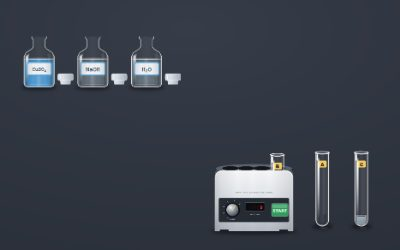
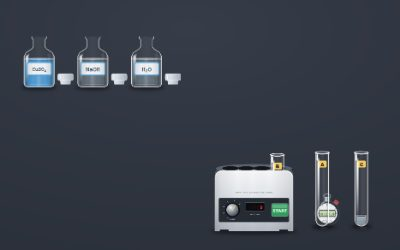
Chemistry Bench: the centrifuge is seen to spin, takes time, and there is a stop-watch
- under the lid the tubes go round: the rotor picks up speed, the tubes swing outwards,
  blur at full speed, and slow to rest; the rev counter climbs and falls with them
- it runs from START until STOP is pressed (or half a minute), and it takes time: ten
  seconds packs the solid into a pellet, less leaves the liquid cloudy and says so
- a stop-watch (Equipment): the crown starts and stops it, the red key sets it to nought;
  it reads minutes : seconds . tenths
- the START key is found by where it is, because a tube standing in the right-hand well
  is drawn over it and used to take the press
- the practical and PrepBot's demonstration time the run with the stop-watch

Changed region(s): [[0.78, 0.756, 0.87, 0.896], [0.33, 0.224, 0.39, 0.252], [0.09, 0.224, 0.12, 0.252]]

diff --git a/virtual-lab/chemistry-2d/js/main.js b/virtual-lab/chemistry-2d/js/main.js
@@ -44,7 +44,7 @@ const MOUTH = ["lit", "glow"];                        // held at the mouth
 const TAKES = { dropper: 0.5, pipette: 12.5 };        // portions drawn up (a portion is 2 cm3)
 const STAYS = ["funnel", "paper", "chroma", "bung", "bung1", "tubing", "cap", "condenser", "electrode"];   // fitted, and left there
 const PLUGS = ["funnel", "bung", "bung1"];            // one of these to a mouth (a delivery tube goes in a one-hole stopper)
-const IDLE = ["waste", "syringe", "power", "holder", "tongs"];                 // never used ON anything
+const IDLE = ["waste", "syringe", "power", "holder", "tongs", "watch"];                 // never used ON anything
 // Things that PICK UP: a test tube holder grips a tube by its neck, tongs take a crucible or a
 // dish by its rim. The piece is then carried by the tool (it is the tool's rider, `held`), and
 // carried over a flame it is heated there. jaw = where the grip is, in the tool's own drawing.
@@ -103,7 +103,7 @@ const CATS = [
 // other words a student might search by
 const ALSO = {
   stand: "clamp stand boss", burette: "titration", pipette: "titration", distflask: "distillation side arm", condenser: "distillation liebig", balance: "weighing scale mass tare",
-  trough: "gas collection over water pneumatic", tubing: "delivery tube glass rubber tubing gas", bung: "bung cork", bung1: "bung cork holed bored delivery", funnel: "filtration filter", paper: "filtration filter", magnet: "magnetic separation iron filings", centrifuge: "centrifugation spin separate precipitate pellet supernatant", chroma: "chromatography ink dyes separation", burner: "bunsen heat", syringe: "gas volume measure",
+  trough: "gas collection over water pneumatic", tubing: "delivery tube glass rubber tubing gas", bung: "bung cork", bung1: "bung cork holed bored delivery", funnel: "filtration filter", paper: "filtration filter", magnet: "magnetic separation iron filings", centrifuge: "centrifugation spin separate precipitate pellet supernatant", watch: "stopwatch timer clock time seconds", chroma: "chromatography ink dyes separation", burner: "bunsen heat", syringe: "gas volume measure",
   spirit: "alcohol lamp heat", flask: "erlenmeyer", flask100: "erlenmeyer", cyl10: "graduated", cyl100: "graduated", dish: "basin", tripod: "gauze", holder: "tongs peg", waste: "sink bin",
   sepfunnel: "separating separation immiscible oil", electrode: "electrolysis carbon rod graphite cathode anode", power: "electrolysis battery cell supply", gasjar: "gas collection",
 };
@@ -388,6 +388,7 @@ function dress(it) {
   if (TAKES[it.key]) g.querySelector(".cl-drop-liq").style.fill = it.sample ? `rgba(${it.rgb || [200, 224, 240]},0.9)` : "transparent";
   if (it.key === "wire") g.querySelector(".cl-loop").style.fill = it.sample ? "#f2f6fb" : "transparent";
   if (it.kind === "reagent") g.style.setProperty("--drop", `${((1 - leftIn(it) / fullOf(it)) * DROP[reagent(it.key).kind]).toFixed(1)}px`);
+  if (it.key === "watch") watchFace(it);
   if (it.key === "magnet") g.classList.toggle("has-filings", Boolean(it.sample));
   if (it.key === "chroma") {
     const ink = INKS[it.ink || "black"], p = it.washed ? 0 : it.p || 0;
@@ -1852,37 +1853,101 @@ setInterval(() => {
 
 // ── a centrifuge ────────────────────────────────────────────────────────────
 // Tubes stand in its four wells. It must be BALANCED before it will run: every tube needs
-// another opposite it holding about the same amount (a tube of water will do).
+// another opposite it holding about the same amount (a tube of water will do). START sets
+// the rotor going: it is seen to pick up speed under the lid, the tubes swinging outwards as
+// they go round. It runs until STOP is pressed (or half a minute has gone), and it takes
+// TIME to work: ten seconds at speed packs the solid down; less leaves the liquid cloudy.
+// That is what the stop-watch is for.
+const SPIN_FULL = 17;              // radians a second, at 3000 rev/min as the dial has it
+const SPIN_NEEDS = 10;             // seconds, start to stop, for the solid to be packed
+const spins = new Map();           // centrifuge id → { t0, last, speed, angle, stopAt, tubes }
 function spinCentrifuge(c) {
   const n = nodes[c.id];
-  if (!n || c.spinning) return false;
+  if (!n) return false;
+  if (spins.has(c.id)) { stopCentrifuge(c); return true; }
   const inWell = (i) => vessels().find((v) => v.rack && v.rack[0] === c.id && v.rack[1] === i) || null;
   const tubes = [0, 1, 2, 3].map(inWell);
   if (!tubes.some(Boolean)) { say("The centrifuge is empty. Let a test tube go at one of its wells.", null, "no"); return false; }
-  for (const [a, b] of [[0, 3], [1, 2]]) {
-    const x = tubes[a], y = tubes[b];
+  for (const [x1, x2] of [[0, 3], [1, 2]]) {
+    const x = tubes[x1], y = tubes[x2];
     if (Boolean(x) !== Boolean(y)) { say("It is not balanced, and will not run. Put a second test tube in the well OPPOSITE, with the same amount of water in it.", null, "no"); flash(c); return false; }
     if (x && y && Math.abs(x.t.vol + (x.t.oil || 0) - (y.t.vol + (y.t.oil || 0))) > 1.05) { say(`It is not balanced: ${plain(x)} and ${plain(y)} do not hold the same amount. Make them level.`, null, "no"); flash(c); return false; }
   }
-  if (tubes.some((v) => v && stopperOf(v))) { /* stoppered is fine */ }
-  c.spinning = true;
   select(null);
+  const now = performance.now();
+  const sp = { t0: now, last: now, speed: 0, angle: 0, stopAt: 0, tubes };
+  spins.set(c.id, sp);
   for (const el of [n.g, n.front]) el.classList.add("is-spinning");
-  say("The lid is down and it is spinning at 3000 revolutions a minute.");
-  setTimeout(() => {
-    c.spinning = false;
-    if (!nodes[c.id]) return;
-    for (const el of [n.g, n.front]) el.classList.remove("is-spinning");
-    for (const v of tubes.filter(Boolean)) {
-      if (!nodes[v.id]) continue;
-      const res = centrifuge(v.t);
-      paint(v);
-      record(v, res);
-    }
-    save();
-  }, 3400);
+  // the tubes are in the rotor now, under the lid: the ones standing in the wells are put out of sight
+  for (const v of tubes.filter(Boolean)) for (const el of [nodes[v.id].g, nodes[v.id].veil]) if (el) el.style.visibility = "hidden";
+  n.front.querySelector(".cl-rotor").innerHTML = tubes.map((v, i) => {
+    if (!v) return "";
+    const lk = look(v.t), solid = Object.keys(speciate(v.t).ppt).length > 0;
+    return `<g data-i="${i}"><rect x="-5.5" y="-4" width="11" height="30" rx="5.5" fill="#dfe6ee" fill-opacity="0.3" stroke="#fff" stroke-opacity="0.85" stroke-width="0.8"/><rect x="-4.3" y="6" width="8.6" height="19" rx="4.3" fill="rgba(${lk.rgb},${Math.max(lk.a, 0.5)})"/>${solid ? `<rect x="-4.3" y="18" width="8.6" height="7" rx="3.5" fill="#fff" fill-opacity="0.35"/>` : ""}</g>`;
+  }).join("");
+  say(`It is running. It takes time: leave it at least ${SPIN_NEEDS} seconds (time it with the stop-watch), then press STOP.`);
+  requestAnimationFrame((t) => spinTick(c, t));
   return true;
 }
+function stopCentrifuge(c) {
+  const sp = spins.get(c.id);
+  if (sp && !sp.stopAt) { sp.stopAt = performance.now(); say("STOP: the rotor is slowing down. Wait for it."); }
+}
+function spinTick(c, now) {
+  const sp = spins.get(c.id), n = nodes[c.id];
+  if (!sp) return;
+  if (!n) { spins.delete(c.id); return; }
+  const dt = Math.min(0.05, (now - sp.last) / 1000);
+  sp.last = now;
+  if (!sp.stopAt && now - sp.t0 > 30000) stopCentrifuge(c);
+  sp.speed += ((sp.stopAt ? 0 : SPIN_FULL) - sp.speed) * Math.min(1, dt * (sp.stopAt ? 1.5 : 1.1));      // it takes a while to get up to speed, and to stop
+  sp.angle += sp.speed * dt;
+  const k = sp.speed / SPIN_FULL;
+  const rotor = n.front.querySelector(".cl-rotor");
+  const stubs = [...rotor.children].map((el) => ({ el, th: sp.angle + (Number(el.dataset.i) * Math.PI) / 2 }));
+  // the far ones first, so that the near ones pass in front of them
+  stubs.sort((x, y) => Math.sin(x.th) - Math.sin(y.th)).forEach(({ el, th }) => {
+    rotor.appendChild(el);
+    const depth = Math.sin(th);
+    // going round, a tube swings OUT from the axis: the faster, the nearer to lying flat
+    el.setAttribute("transform", `translate(${(Math.cos(th) * 50).toFixed(1)} ${(-136 + depth * 7).toFixed(1)}) scale(${(0.86 + depth * 0.14).toFixed(2)}) rotate(${(-Math.cos(th) * k * 62).toFixed(1)})`);
+    el.setAttribute("opacity", (1 - k * 0.45).toFixed(2));
+  });
+  n.front.querySelector(".cl-blur").style.opacity = Math.max(0, k - 0.35).toFixed(2);
+  n.front.querySelector(".cl-rpm--on").textContent = String(Math.round((k * 3000) / 50) * 50);
+  if (sp.stopAt && sp.speed < 0.35) { spinDone(c, sp); return; }
+  requestAnimationFrame((t) => spinTick(c, t));
+}
+function spinDone(c, sp) {
+  spins.delete(c.id);
+  const n = nodes[c.id];
+  if (n) { for (const el of [n.g, n.front]) el.classList.remove("is-spinning"); n.front.querySelector(".cl-rotor").innerHTML = ""; }
+  const secs = (sp.stopAt - sp.t0) / 1000;
+  for (const v of sp.tubes.filter(Boolean)) {
+    if (!nodes[v.id]) continue;
+    for (const el of [nodes[v.id].g, nodes[v.id].veil]) if (el) el.style.visibility = "";
+    const solid = Object.keys(speciate(v.t).ppt).length > 0 || (v.t.solid.sand || 0) > 0;
+    let res;
+    if (secs >= SPIN_NEEDS || !solid) res = centrifuge(v.t);
+    else res = { title: `Centrifuged for ${Math.round(secs)} s`, obs: [{ text: `It was spun for only ${Math.round(secs)} seconds. Some of the solid has come down, but the liquid is still cloudy.`, why: `A fine solid needs time at full speed to be thrown to the bottom. Run it for at least ${SPIN_NEEDS} seconds: use the stop-watch.` }], flags: ["spun:short"] };
+    if (secs >= SPIN_NEEDS && solid) res.title = `Centrifuged for ${Math.round(secs)} s`;
+    paint(v);
+    record(v, res);
+  }
+  save();
+}
+
+// ── the stop-watch ──────────────────────────────────────────────────────────
+// Its crown starts and stops it; the small red key sets it back to nought.
+const watchMs = (w) => (w.acc || 0) + (w.run ? Date.now() - w.run : 0);
+function watchFace(w) {
+  const n = nodes[w.id];
+  if (!n) return;
+  const ms = watchMs(w), min = Math.floor(ms / 60000), s = Math.floor(ms / 1000) % 60, tenth = Math.floor(ms / 100) % 10;
+  n.g.querySelector(".cl-watch-t").textContent = `${String(min).padStart(2, "0")}:${String(s).padStart(2, "0")}.${tenth}`;
+  n.g.classList.toggle("is-running", Boolean(w.run));
+}
+setInterval(() => { for (const w of tools("watch")) if (w.run) watchFace(w); }, 100);
 
 // ── things that are pressed: a tap, a power switch, a tare key ──────────────
 let tap = null;
@@ -1964,6 +2029,12 @@ function press(e, it) {
     save();
   } else if (what === "power") startTap(it, runCell, 900);
   else if (what === "spin") spinCentrifuge(it);
+  else if (what === "watch") {
+    select(null);
+    if (it.run) { it.acc = watchMs(it); it.run = null; say(`Stopped at ${(it.acc / 1000).toFixed(1)} seconds.`); } else { it.run = Date.now(); say("The stop-watch is running. Press its crown again to stop it."); }
+    watchFace(it);
+    save();
+  } else if (what === "watchreset") { select(null); it.acc = 0; it.run = null; watchFace(it); save(); }
   else if (what === "clamp") { select(null); slide = { it, y0: world(e).y, c0: it.clamp ?? CLAMP }; }
   else if (what === "tare") {
     select(null);
@@ -2100,6 +2171,10 @@ svg.addEventListener("pointerdown", (e) => {
   const w = world(e);
   const tapped = vessels().find((v) => { const d = VESSELS[v.key]; return d.tap && Math.abs(w.x - v.x) < 24 && w.y > v.y - d.floor - 14 && w.y < v.y - d.floor + 24; });
   if (tapped) { e.preventDefault(); startTap(tapped, runTap); return; }
+  // a centrifuge's START key is on its front, and a tube standing in the well above is drawn over it:
+  // it too is found by where it is
+  const spun = state.items.find((c) => c.kind === "rack" && c.key === "centrifuge" && w.x > c.x + 34 && w.x < c.x + 72 && w.y > c.y - 58 && w.y < c.y - 28);
+  if (spun) { e.preventDefault(); spinCentrifuge(spun); return; }
   const g = e.target.closest("[data-item]");
   if (!g) return select(null);
   e.preventDefault();
@@ -2459,6 +2534,7 @@ function openMenu(it) {
     lines.push(held ? `Holding ${plain(held)} by ${GRIPS[it.key].says}. Carry it over a lit burner to heat it.` : it.key === "holder" ? "Let it go at the neck of a test tube or a boiling tube and it grips it." : "Let them go at the rim of a crucible, an evaporating dish or a watch glass and they take hold of it.");
     if (held) act("drop", "Let go", ICON.flip);
   }
+  else if (it.key === "watch") lines.push(it.run ? "Running. Press its crown to stop it." : `Reads ${(watchMs(it) / 1000).toFixed(1)} s. Press the crown on top to start and stop it; the small red key sets it back to nought.`);
   else if (it.key === "magnet") { lines.push(it.sample ? "Iron filings cling to both poles." : "Hold it over a mixture. Only iron is pulled to it."); if (it.sample) act("empty", "Wipe the filings off", ICON.empty); }
   else if (it.key === "chroma") {
     lines.push(`A spot of ${INKS[it.ink || "black"].name} ink on the pencil line. ${it.washed ? "The ink has washed off: take a fresh strip." : it.p >= 1 ? "Run: measure each spot, and the solvent front, from the pencil line." : it.on ? "It needs a little water in the beaker: touching the paper, below the ink." : "Let it go at the mouth of a beaker and the rod lies across the rim."}`);
@@ -2475,7 +2551,7 @@ function openMenu(it) {
   else if (it.key === "condenser") lines.push(it.on ? "Cold water runs through the jacket. Stand a beaker under the lower end." : "Push it onto the side arm of a distilling flask.");
   else if (it.key === "cap") lines.push("Put it back by letting it go at the bottle's mouth.");
   else if (it.kind === "rack" && it.key === "balance") lines.push("Stand a vessel on the pan. The red TARE key sets the reading to zero.");
-  else if (it.kind === "rack" && it.key === "centrifuge") lines.push("Stand test tubes in its wells, each with another OPPOSITE holding the same amount, and press the green START key. It will not run out of balance.");
+  else if (it.kind === "rack" && it.key === "centrifuge") lines.push(`Stand test tubes in its wells, each with another OPPOSITE holding the same amount, and press START. It will not run out of balance. Leave it running at least ${SPIN_NEEDS} seconds, then press STOP.`);
   else if (it.kind === "rack" && it.key === "tripod") lines.push("Stand a beaker or a dish on the gauze, and hold a lit burner underneath.");
   else if (it.kind === "rack" && it.key === "stand") lines.push("Slide the clamp by its yellow boss. Let a tube, a flask, a burette or a separating funnel go at the clamp and it is held.");
   if (it.key !== "cap") lines.push(`<span class="cl-menu__hint">Drag it onto the drawer to put it away.</span>`);
@@ -2914,11 +2990,22 @@ const actor = {
     dress(tool);
   },
   inHost: (hostKey) => Q.inHost(hostKey),
-  /** Run a centrifuge and wait for it to stop. */
-  async spin(c) {
-    if (!spinCentrifuge(c)) return false;
-    await pause(4200);
+  /** Run a centrifuge for long enough, stop it, and wait for the rotor to come to rest. */
+  async spin(c, secs = 10.6) {
+    if (spins.has(c.id) || !spinCentrifuge(c)) return false;
+    await pause(secs * 1000);
+    stopCentrifuge(c);
+    for (let i = 0; i < 80 && spins.has(c.id); i++) await pause(100);
+    await pause(400);
     return true;
+  },
+  /** Start or stop a stop-watch, or set it back to nought. */
+  async watch(w, on) {
+    if (on === "reset") { w.acc = 0; w.run = null; } else if (on && !w.run) w.run = Date.now(); else if (!on && w.run) { w.acc = watchMs(w); w.run = null; }
+    watchFace(w);
+    flash(w);
+    await pause(300);
+    save();
   },
   /** Slide a retort stand's clamp up or down its rod. */
   async slide(stand, to) {
@@ -3089,6 +3176,7 @@ if (restored) {
     save();
   });
 }
+state.items.forEach((it) => { delete it.spinning; });
 if (restored && !state.papers) {
   state.items.filter((it) => it.key === "funnel").forEach((f) => addItem("tool", "paper", f.x, f.y, { on: f.id }));
 }

diff --git a/virtual-lab/chemistry-2d/js/glass.js b/virtual-lab/chemistry-2d/js/glass.js
@@ -228,6 +228,7 @@ export const DEFS = `
   <linearGradient id="g-case" x1="0" x2="0" y1="0" y2="1">
     <stop offset="0" stop-color="#f6f7f9"/><stop offset="0.5" stop-color="#dfe3e8"/><stop offset="1" stop-color="#b4bac3"/>
   </linearGradient>
+  <clipPath id="cf-rotor"><rect x="-80" y="-200" width="160" height="78"/></clipPath>
   <linearGradient id="g-liq-x" x1="0" x2="1" y1="0" y2="0">
     <stop offset="0" stop-color="#000" stop-opacity="0.34"/><stop offset="0.1" stop-color="#000" stop-opacity="0.14"/><stop offset="0.3" stop-color="#fff" stop-opacity="0.07"/>
     <stop offset="0.5" stop-color="#fff" stop-opacity="0"/><stop offset="0.82" stop-color="#000" stop-opacity="0.1"/><stop offset="1" stop-color="#000" stop-opacity="0.36"/>
@@ -640,6 +641,7 @@ export const TOOLS = {
   pipette: { name: "Pipette (25 mL) and filler", act: [0, 0], bbox: { x0: -12, y0: -190, x1: 12, y1: 6 } },
   funnel: { name: "Filter funnel", act: [0, 0], bbox: { x0: -40, y0: -66, x1: 40, y1: 34 } },
   paper: { name: "Filter paper", act: [0, 0], bbox: { x0: -34, y0: -62, x1: 34, y1: 6 } },
+  watch: { name: "Stop-watch", act: [0, 0], bbox: { x0: -27, y0: -70, x1: 27, y1: 6 } },
   magnet: { name: "Horseshoe magnet", act: [0, 0], bbox: { x0: -24, y0: -64, x1: 24, y1: 8 } },
   chroma: { name: "Chromatography paper", act: [0, 0], bbox: { x0: -42, y0: -10, x1: 42, y1: 108 } },
   bung: { name: "Rubber stopper", act: [0, 0], bbox: { x0: -18, y0: -14, x1: 18, y1: 13 } },
@@ -887,6 +889,22 @@ export function toolSvg(key, it = {}) {
     return `<path d="M-34 -58L40 2" stroke="#fff" stroke-opacity="0.16" stroke-width="6" stroke-linecap="round"/><path d="M-34 -58L40 2" stroke="url(#g-streak)" stroke-width="5" stroke-linecap="round" opacity="0.5"/>
       <path d="M-34 -58L40 2" fill="none" stroke="#fff" stroke-opacity="0.75" stroke-width="0.9" stroke-linecap="round" transform="translate(-1.6 2)"/><path d="M-34 -58L40 2" fill="none" stroke="#fff" stroke-opacity="0.55" stroke-width="0.9" stroke-linecap="round" transform="translate(1.6 -2)"/>${hit(b)}`;
   }
+  if (key === "watch") {
+    // a hand stop-watch: a round case with a crown that starts and stops it, a small key that
+    // sets it back to nought, and figures that read minutes : seconds . tenths
+    return `<ellipse cx="0" cy="2" rx="22" ry="3.5" fill="#000" fill-opacity="0.3" filter="url(#g-soft)"/>
+      <path d="M-4 -56q-8 -8 4 -10q12 2 4 10" fill="none" stroke="#8f98a4" stroke-width="1.6"/>
+      <circle cx="0" cy="-26" r="25" fill="#2b313a" stroke="#fff" stroke-opacity="0.3" stroke-width="0.8"/>
+      <circle cx="0" cy="-26" r="25" fill="url(#g-shade)" opacity="0.5"/>
+      <circle cx="0" cy="-26" r="21" fill="#e9ecef"/><circle cx="0" cy="-26" r="21" fill="none" stroke="#5d6570" stroke-width="0.8"/>
+      ${Array.from({ length: 12 }, (_, i) => `<path d="M0 -45.500V-${i % 3 === 0 ? 42 : 43.5}" transform="rotate(${i * 30} 0 -26)" stroke="#2b313a" stroke-width="${i % 3 === 0 ? 1.3 : 0.7}"/>`).join("")}
+      <rect x="-17" y="-33" width="34" height="14" rx="1.5" fill="#11151a"/><rect x="-16" y="-32" width="32" height="12" rx="1" fill="url(#g-lcd)"/>
+      <text class="cl-watch-ghost" x="15" y="-22.4">88:88.8</text><text class="cl-watch-t" x="15" y="-22.4">00:00.0</text>
+      <text class="cl-plate" x="0" y="-11" style="font-size:3.4px">min : s</text>
+      <path d="M-13 -44a25 25 0 0 1 8 -5.5" fill="none" stroke="#fff" stroke-opacity="0.5" stroke-width="1.6" stroke-linecap="round"/>${hit(b)}
+      <g class="cl-press" data-press="watch"><rect x="-6" y="-60" width="12" height="10" rx="2" fill="url(#g-metal)" stroke="#4a515b" stroke-width="0.6"/><path d="M-4 -58v6M-1.3 -58v6M1.3 -58v6M4 -58v6" stroke="#4a515b" stroke-width="0.5"/><rect x="-11" y="-66" width="22" height="18" fill="transparent"/></g>
+      <g class="cl-press" data-press="watchreset"><rect x="14" y="-52" width="9" height="7" rx="2" fill="#c0453a" stroke="#fff" stroke-opacity="0.4" stroke-width="0.6" transform="rotate(38 18.5 -48.5)"/><rect x="10" y="-58" width="18" height="16" fill="transparent"/></g>`;
+  }
   if (key === "magnet") {
     // a horseshoe magnet, poles down: red enamel, bare steel pole pieces, and the beard of
     // filings it picks up
@@ -973,7 +991,7 @@ export function splintAfter(end) {
 export const SUPPORTS = {
   rack: { name: "Test tube rack", slots: [-110, -55, 0, 55, 110].map((x) => [x, -12]), fits: (d) => Boolean(d.rack), bbox: { x0: -156, y0: -92, x1: 156, y1: 8 } },
   // four tubes at a time, two and two opposite each other: (0, 3) and (1, 2) are the pairs
-  centrifuge: { name: "Centrifuge", slots: [-48, -16, 16, 48].map((x) => [x, -6]), fits: (d) => Boolean(d.rack), bbox: { x0: -86, y0: -150, x1: 86, y1: 8 } },
+  centrifuge: { name: "Centrifuge", slots: [-48, -16, 16, 48].map((x) => [x, -6]), fits: (d) => Boolean(d.rack), bbox: { x0: -86, y0: -172, x1: 86, y1: 8 } },
   tripod: { name: "Tripod and gauze", slots: [[0, -158]], fits: (d) => Boolean(d.flat) && !d.fixed && d.rMax < 90, bbox: { x0: -64, y0: -164, x1: 64, y1: 8 } },
   balance: { name: "Electronic balance", slots: [[0, -46]], fits: (d) => !d.fixed && d.rMax < 90, bbox: { x0: -84, y0: -58, x1: 84, y1: 8 } },
   // its one slot is wherever the clamp has been slid to (main.js works the height out for each vessel)
@@ -1046,11 +1064,13 @@ export function supportSvg(key) {
         <rect x="-18" y="-58" width="40" height="17" rx="1.5" fill="#0a0c0f" stroke="#5b6470" stroke-width="0.8"/>
         <text class="cl-psu cl-psu--ghost" x="18" y="-45">8888</text><text class="cl-psu cl-rpm cl-rpm--off" x="18" y="-45">0</text><text class="cl-psu cl-rpm cl-rpm--on" x="18" y="-45">3000</text>
         <text class="cl-plate cl-plate--l" x="2" y="-33">rev / min</text>
-        <rect x="36" y="-56" width="34" height="26" rx="3" fill="#2f9e5b" stroke="#fff" stroke-opacity="0.5" stroke-width="0.8"/><rect x="38" y="-54" width="30" height="7" rx="2.5" fill="#fff" fill-opacity="0.22"/>
-        <text class="cl-press-t cl-press-t--s" x="53" y="-39">START</text>
+        <rect class="cl-gokey" x="36" y="-56" width="34" height="26" rx="3" fill="#2f9e5b" stroke="#fff" stroke-opacity="0.5" stroke-width="0.8"/><rect x="38" y="-54" width="30" height="7" rx="2.5" fill="#fff" fill-opacity="0.22"/>
+        <text class="cl-press-t cl-press-t--s cl-go" x="53" y="-39">START</text><text class="cl-press-t cl-press-t--s cl-halt" x="53" y="-39">STOP</text>
         <text class="cl-plate" x="0" y="-78" style="font-size:4.2px">PREP  CF-4   balance the tubes</text>
-        <g class="cl-lid"><path d="M-74 -124q0 -40 74 -40t74 40z" fill="#aab8c8" fill-opacity="0.5" stroke="#fff" stroke-opacity="0.7" stroke-width="1"/><path d="M-60 -130q8 -22 40 -27" fill="none" stroke="#fff" stroke-opacity="0.6" stroke-width="2.4" stroke-linecap="round"/><rect x="-10" y="-168" width="20" height="6" rx="3" fill="#59626e"/>
-          <path class="cl-whirl" d="M-56 -136h30M-10 -146h44M20 -134h34M-40 -150h22" stroke="#fff" stroke-opacity="0.55" stroke-width="1.6" stroke-linecap="round"/></g>`,
+        <g class="cl-lid"><ellipse cx="0" cy="-128" rx="70" ry="8" fill="#12161b" fill-opacity="0.55"/>
+          <ellipse class="cl-blur" cx="0" cy="-131" rx="52" ry="8.4"/><g clip-path="url(#cf-rotor)"><g class="cl-rotor"></g></g>
+          <rect x="-4" y="-140" width="8" height="12" rx="2" fill="url(#g-metal)"/><ellipse cx="0" cy="-140" rx="7" ry="2.2" fill="#aab2bd"/>
+          <path d="M-74 -124q0 -40 74 -40t74 40z" fill="#aab8c8" fill-opacity="0.2" stroke="#fff" stroke-opacity="0.7" stroke-width="1"/><path d="M-60 -130q8 -22 40 -27" fill="none" stroke="#fff" stroke-opacity="0.55" stroke-width="2.4" stroke-linecap="round"/><rect x="-10" y="-168" width="20" height="6" rx="3" fill="#59626e"/></g>`,
     };
   }
   if (key === "stand") {

diff --git a/virtual-lab/chemistry-2d/js/prepbot.js b/virtual-lab/chemistry-2d/js/prepbot.js
@@ -361,7 +361,7 @@ export const LESSONS = [
       { text: "Take a test tube and make a precipitate in it: a measure of copper(II) sulfate, then one of sodium hydroxide.", done: (seen) => seen.has("ppt:CuOH") },
       { text: "Take a second test tube and pour two measures of distilled water into it, to balance the first.", done: (seen) => seen.has("added:water") },
       { text: "Take the centrifuge from Equipment. Stand the two tubes in wells OPPOSITE each other: the two outside wells.", done: (seen, b) => b.count("rack", "centrifuge") > 0 && b.inHost("centrifuge") >= 2 },
-      { text: "Press the green START key and wait for it to stop.", done: (seen) => seen.has("spun") },
+      { text: "Take the stop-watch. Press START on the centrifuge and the crown of the stop-watch. After at least 10 seconds press STOP, and wait for the rotor to come to rest.", done: (seen) => seen.has("spun") },
       { text: "Lift the tube out and pour the clear liquid off the pellet into an empty test tube.", done: (seen) => seen.has("supernatant") },
     ],
     async run({ say, b }) {
@@ -384,8 +384,12 @@ export const LESSONS = [
       await b.into(t1, cf, 0);
       await b.into(t2, cf, 3);
       await say("They go in wells opposite each other. A centrifuge out of balance shakes itself to pieces, so it will not run until it is balanced.");
+      const sw = await b.take("tool", "watch", at(590), b.BASE);
+      await say("It takes time, so I time it with a stop-watch. Watch the tubes swing out as the rotor picks up speed.");
+      await b.watch(sw, true);
       await b.spin(cf);
-      await say("Spun. The solid is packed into a pellet at the bottom, and the liquid above is clear.");
+      await b.watch(sw, false);
+      await say("Ten seconds, and stop. The solid is packed into a pellet at the bottom, and the liquid above is clear.");
       const t3 = await b.take("vessel", "tube", at(660), b.BASE);
       await b.move(t1, at(580), b.BASE, 500);
       await b.pour(t1, t3, 3);
@@ -754,7 +758,7 @@ export async function initPrepbot(bench) {
     condenser: ["condenser"], funnel: ["funnel"], water: ["water"], hcl: ["acid"], naoh: ["alkali"], nh3: ["ammonia solution", "ammonia"],
     unk: ["unknown salt", "unknown", "sample x"], caco3: ["calcium carbonate", "marble"], mno2: ["manganese dioxide", "manganese oxide"], h2o2: ["hydrogen peroxide", "peroxide"], oil: ["oil"],
     mg: ["magnesium"], zn: ["zinc"], fe: ["iron"], cu: ["copper"], cuo: ["copper oxide"],
-    sandsalt: ["sand and salt", "salt and sand", "mixture"], sulfur: ["sulphur powder", "sulphur", "sulfur"], iodine: ["iodine"], magnet: ["magnet"], centrifuge: ["centrifuge"], chroma: ["chromatography paper", "chromatography strip", "chromatography"],
+    sandsalt: ["sand and salt", "salt and sand", "mixture"], sulfur: ["sulphur powder", "sulphur", "sulfur"], iodine: ["iodine"], magnet: ["magnet"], centrifuge: ["centrifuge"], watch: ["stop watch", "stopwatch", "timer"], chroma: ["chromatography paper", "chromatography strip", "chromatography"],
   };
   const stock = bench.catalog();
   const words = [];

diff --git a/virtual-lab/chemistry-2d/js/waec.js b/virtual-lab/chemistry-2d/js/waec.js
@@ -367,14 +367,14 @@ export const EXPERIMENTS = [
   {
     id: "centrifuge", group: "sep", title: "Centrifugation",
     task: "Separate a fine precipitate from its liquid by centrifuging, and pour off the clear liquid.",
-    needs: "three test tubes, centrifuge (in Equipment), copper(II) sulfate solution, sodium hydroxide solution, distilled water",
+    needs: "three test tubes, centrifuge and stop-watch (both in Equipment), copper(II) sulfate solution, sodium hydroxide solution, distilled water",
     steps: [
       { text: "Make a precipitate in a test tube: a measure of copper(II) sulfate, then a measure of sodium hydroxide.", need: [], test: (seen) => [...seen].some((f) => f.startsWith("ppt:")) },
       { text: "Stand the tube in a well of the centrifuge. In the well OPPOSITE stand a second test tube holding the same amount of water (two measures), to balance it.", check: (q) => q.inHost("centrifuge") >= 2 },
-      { text: "Press the green START key. The lid closes and it spins.", need: ["spun"] },
+      { text: "Press START on the centrifuge and the crown of the stop-watch together. Watch the rotor go round. After at least 10 seconds press STOP, and wait for it to come to rest.", need: ["spun"] },
       { text: "Lift the tube out and pour the clear liquid off the pellet into an empty test tube.", need: ["supernatant"] },
     ],
-    record: "A centrifuge separates a solid from a liquid by spinning: the denser solid is thrown to the bottom of the tube as a pellet, and the clear liquid above it, the supernatant, is poured off. It is used when the solid is too fine to settle or to filter. The tubes are always balanced in opposite pairs, or the spinning rotor shakes itself to pieces.",
+    record: "A centrifuge separates a solid from a liquid by spinning: the denser solid is thrown to the bottom of the tube as a pellet, and the clear liquid above it, the supernatant, is poured off. It is used when the solid is too fine to settle or to filter, and it takes time: stopped too soon, the liquid is still cloudy. The tubes are always balanced in opposite pairs, or the spinning rotor shakes itself to pieces.",
   },
   {
     id: "evaporate", group: "sep", title: "Evaporation to crystals",

diff --git a/virtual-lab/chemistry-2d/css/bench.css b/virtual-lab/chemistry-2d/css/bench.css
@@ -658,18 +658,17 @@ body.cl-dragging { cursor: grabbing; user-select: none; }
 .cl-cards__head { grid-column: 1 / -1; margin: 0.3rem 0 -0.4rem; font: 700 0.6rem var(--font-mono); letter-spacing: 0.14em; text-transform: uppercase; color: var(--text-secondary); }
 .cl-cards__head:first-child { margin-top: 0; }
 
-/* ── the centrifuge ────────────────────────────────────────────────────── */
-.cl-lid, .cl-rpm--on { display: none; }
-.is-spinning .cl-lid, .is-spinning .cl-rpm--on { display: inline; }
-.is-spinning .cl-rpm--off { display: none; }
+/* ── the centrifuge, and the stop-watch ────────────────────────────────── */
+.cl-lid, .cl-rpm--on, .cl-halt { display: none; }
+.is-spinning .cl-lid, .is-spinning .cl-rpm--on, .is-spinning .cl-halt { display: inline; }
+.is-spinning .cl-rpm--off, .is-spinning .cl-go { display: none; }
+.is-spinning .cl-gokey { fill: #c0392b; }
 .cl-rpm { font-size: 9px; }
+.cl-blur { fill: none; stroke: #dfe6ee; stroke-opacity: 0.5; stroke-width: 9; opacity: 0; }
 @media (prefers-reduced-motion: no-preference) {
   .cl-item-front.is-spinning, .cl-item.is-spinning { animation: cl-hum 0.09s linear infinite; }
-  .is-spinning .cl-whirl { animation: cl-whirl 0.22s linear infinite; }
 }
 @keyframes cl-hum { 0%, 100% { translate: 0 0; } 25% { translate: 0.5px 0; } 75% { translate: -0.5px 0.3px; } }
-@keyframes cl-whirl { 0% { transform: translateX(-14px); opacity: 0.2; } 50% { opacity: 0.8; } 100% { transform: translateX(14px); opacity: 0.2; } }
-
-/* what is left in a bottle or a jar: its contents sink as they are used (main.js sets --drop) */
-.cl-stock { transform: translateY(var(--drop, 0px)); transition: transform 0.5s ease; }
-.cl-tile .cl-stock { transform: none; }
+.cl-watch-t, .cl-watch-ghost { fill: #1f2a1c; font: 700 7.4px var(--font-mono); text-anchor: end; letter-spacing: 0.2px; }
+.cl-watch-ghost { fill-opacity: 0.08; }
+.cl-item.is-running .cl-watch-t { fill: #0b3d1a; }
